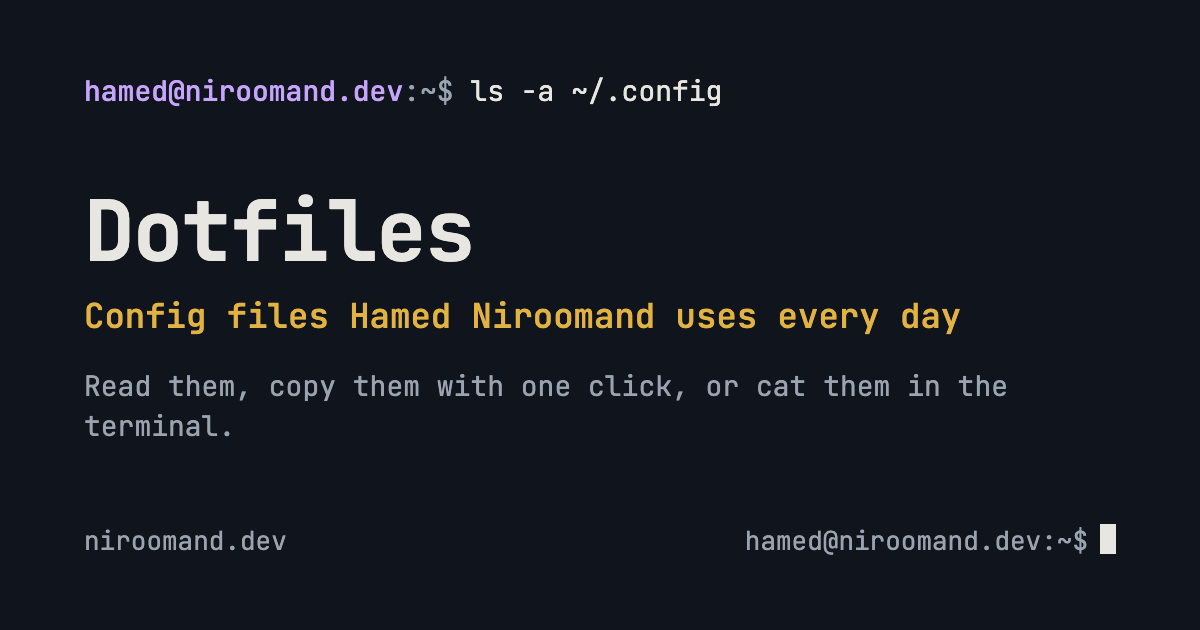
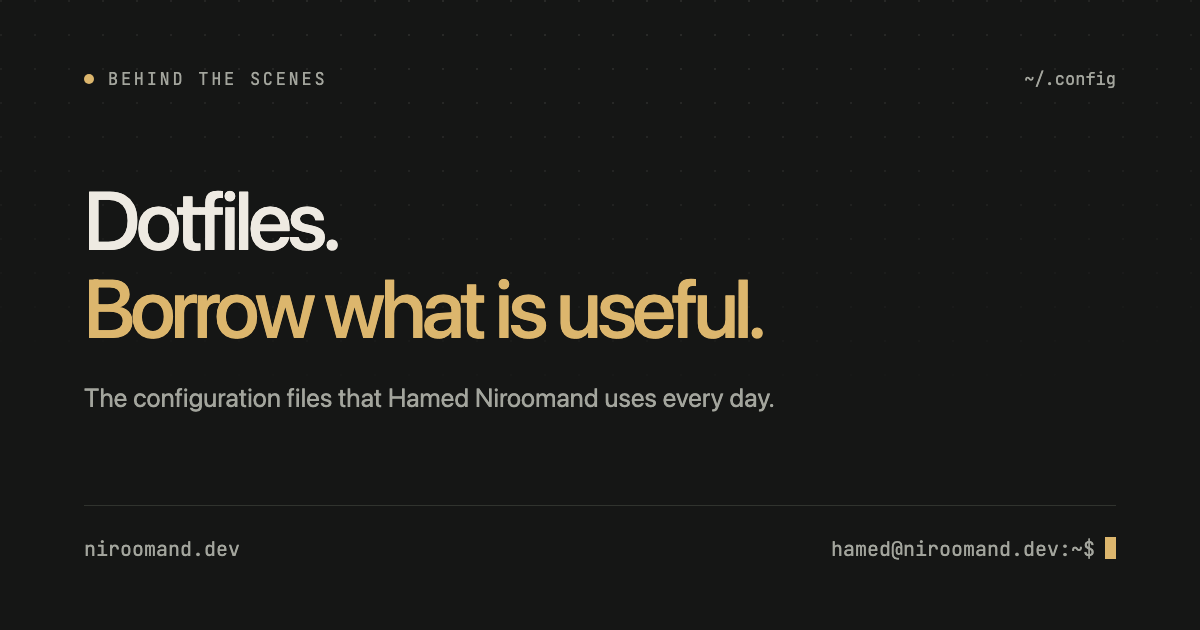
feat(og): rebuild the link preview cards on the current palette

diff --git a/scripts/build-og.ts b/scripts/build-og.ts
@@ -12,9 +12,13 @@ interface Profile {
 
 interface Card {
   file: string;
-  command: string;
+  /** The small line above the heading, in capitals. */
+  eyebrow: string;
+  /** The path shown at the right of the eyebrow row. */
+  path: string;
   heading: string;
-  subheading: string;
+  /** The second part of the heading. It takes the accent colour. */
+  accent: string;
   line: string;
 }
 
@@ -23,6 +27,16 @@ const HEIGHT = 630;
 const FONT =
   'node_modules/@fontsource-variable/jetbrains-mono/files/jetbrains-mono-latin-wght-normal.woff2';
 
+/** The dark theme of the site. Keep these values equal to `app/assets/css/themes.css`. */
+const THEME = {
+  bg: '#151615',
+  fg: '#eeeae2',
+  dim: '#a3a59d',
+  accent: '#dcb66d',
+  accent2: '#a0bdb2',
+  border: '#30332e',
+};
+
 function escapeHtml(text: string): string {
   return text.replace(/&/g, '&amp;').replace(/</g, '&lt;').replace(/>/g, '&gt;');
 }
@@ -30,20 +44,38 @@ function escapeHtml(text: string): string {
 function cards(profile: Profile): Card[] {
   return [
     {
+      file: 'public/og-home.png',
+      eyebrow: 'A PERSONAL WORKSHOP',
+      path: '~/hamed',
+      heading: 'Useful things.',
+      accent: 'Built with curiosity.',
+      line: 'Projects, tools and experiments by Hamed Niroomand.',
+    },
+    {
       file: 'public/og.png',
-      command: 'whoami',
+      eyebrow: 'CURRICULUM VITAE',
+      path: '~/hamed/cv',
       heading: profile.name,
-      subheading: profile.title,
+      accent: profile.title,
       line: profile.tagline ?? '',
     },
     {
       file: 'public/og-dotfiles.png',
-      command: 'ls -a ~/.config',
-      heading: 'Dotfiles',
-      subheading: `Config files ${profile.name} uses every day`,
-      line: 'Read them, copy them with one click, or cat them in the terminal.',
+      eyebrow: 'BEHIND THE SCENES',
+      path: '~/.config',
+      heading: 'Dotfiles.',
+      accent: 'Borrow what is useful.',
+      line: `The configuration files that ${profile.name} uses every day.`,
     },
   ];
+}
+
+/** A long heading needs a smaller size, or it fills the whole card. */
+function headingSize(card: Card): number {
+  const longest = Math.max(card.heading.length, card.accent.length);
+  if (longest > 34) return 60;
+  if (longest > 24) return 71;
+  return 82;
 }
 
 function cardHtml(card: Card, font: string): string {
@@ -52,23 +84,43 @@ function cardHtml(card: Card, font: string): string {
   @font-face { font-family: 'JetBrains Mono'; src: url(data:font/woff2;base64,${font}) format('woff2-variations'); font-weight: 100 800; }
   html, body { margin: 0; }
   body {
-    width: ${WIDTH}px; height: ${HEIGHT}px; box-sizing: border-box; padding: 72px 84px;
+    position: relative; isolation: isolate; overflow: hidden;
+    width: ${WIDTH}px; height: ${HEIGHT}px; box-sizing: border-box; padding: 68px 84px;
     display: flex; flex-direction: column; justify-content: space-between;
-    background: #10141c; color: #e8e6e1; font-family: 'JetBrains Mono', monospace;
+    background: ${THEME.bg}; color: ${THEME.fg};
+    font-family: system-ui, -apple-system, 'Segoe UI', Roboto, 'Helvetica Neue', Arial, sans-serif;
   }
-  .prompt { font-size: 28px; color: #9aa3b0; }
-  .prompt b { color: #c7a4ff; font-weight: 500; }
-  .prompt span { color: #e8e6e1; }
-  h1 { margin: 0; font-size: 84px; font-weight: 700; letter-spacing: -0.02em; line-height: 1.05; }
-  h2 { margin: 18px 0 0; font-size: 34px; font-weight: 500; color: #e3b341; }
-  p { margin: 28px 0 0; font-size: 28px; line-height: 1.4; color: #9aa3b0; max-width: 980px; }
-  footer { display: flex; align-items: center; justify-content: space-between; font-size: 26px; color: #9aa3b0; }
-  .cursor { display: inline-block; width: 16px; height: 30px; margin-left: 12px; vertical-align: -4px; background: #e8e6e1; }
+  /*
+   * The dot grid that the site draws behind its pages.
+   * The site also draws two pools of accent light, but a card leaves them out.
+   * A browser dithers a large gradient, and the noise makes the PNG 2.5 times larger.
+   * At the size of a link preview the light is not visible, so the card keeps only the grid.
+   */
+  body::before {
+    content: ''; position: absolute; z-index: -2; inset: 0;
+    background-image: radial-gradient(circle at 1px 1px, rgb(238 234 226 / 9%) 1px, transparent 0);
+    background-size: 34px 34px;
+    mask-image: radial-gradient(125% 85% at 50% 0%, #000 15%, transparent 78%);
+  }
+  .eyebrow {
+    display: flex; align-items: center; gap: 14px;
+    font: 17px 'JetBrains Mono', monospace; letter-spacing: 2.7px; color: ${THEME.dim};
+  }
+  .dot { width: 10px; height: 10px; border-radius: 50%; background: ${THEME.accent}; }
+  .eyebrow .path { margin-left: auto; letter-spacing: 0; }
+  h1 { margin: 0; font-size: ${headingSize(card)}px; font-weight: 500; letter-spacing: -0.05em; line-height: 1.07; }
+  h1 span { color: ${THEME.accent}; }
+  p { margin: 26px 0 0; font-size: 26px; line-height: 1.6; color: ${THEME.dim}; max-width: 900px; }
+  footer {
+    display: flex; align-items: center; justify-content: space-between;
+    padding-top: 30px; border-top: 1px solid ${THEME.border};
+    font: 20px 'JetBrains Mono', monospace; color: ${THEME.dim};
+  }
+  .cursor { display: inline-block; width: 11px; height: 22px; margin-left: 10px; vertical-align: -3px; background: ${THEME.accent}; }
 </style>
-<div class="prompt"><b>hamed@${DEFAULT_SITE_HOST}</b>:~$ <span>${escapeHtml(card.command)}</span></div>
+<div class="eyebrow"><i class="dot"></i>${escapeHtml(card.eyebrow)}<span class="path">${escapeHtml(card.path)}</span></div>
 <div>
-  <h1>${escapeHtml(card.heading)}</h1>
-  <h2>${escapeHtml(card.subheading)}</h2>
+  <h1>${escapeHtml(card.heading)}<br /><span>${escapeHtml(card.accent)}</span></h1>
   <p>${escapeHtml(card.line)}</p>
 </div>
 <footer><span>${DEFAULT_SITE_HOST}</span><span>hamed@${DEFAULT_SITE_HOST}:~$<i class="cursor"></i></span></footer>`;
